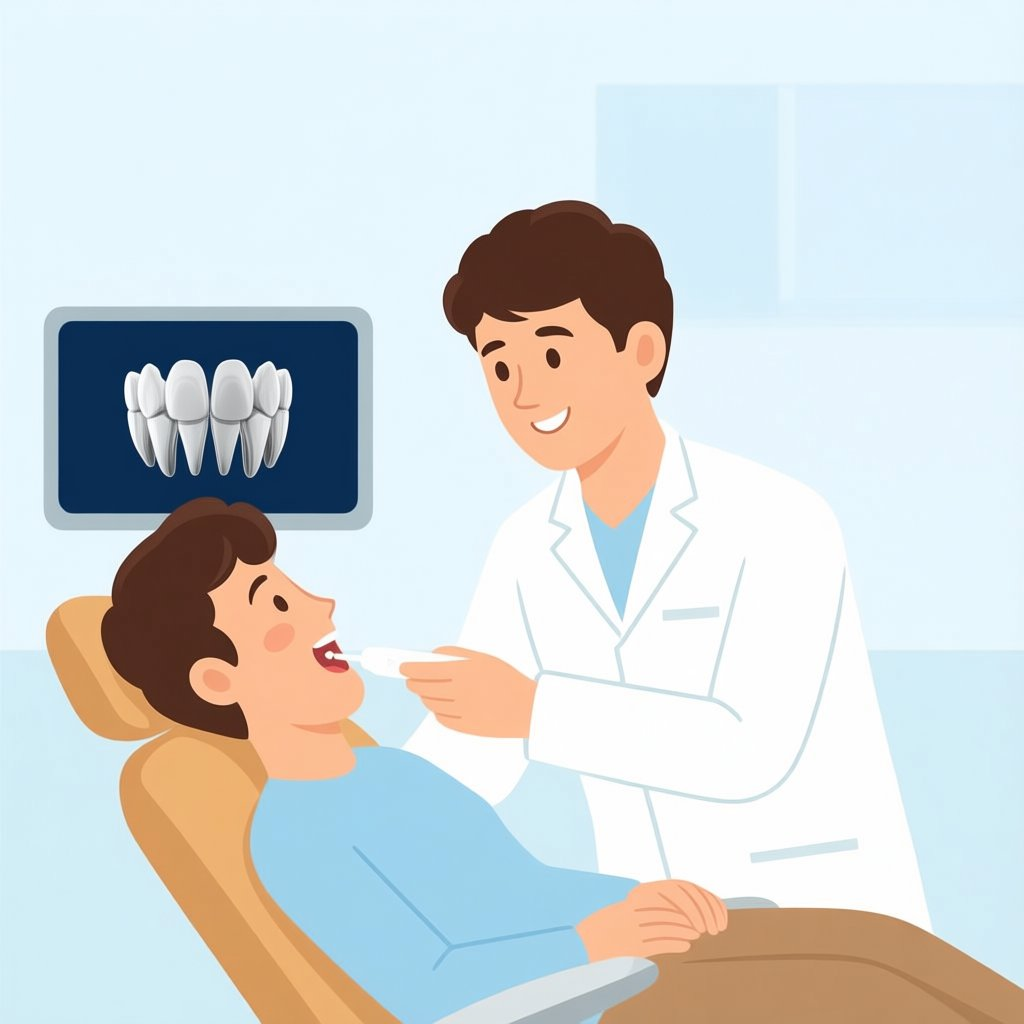
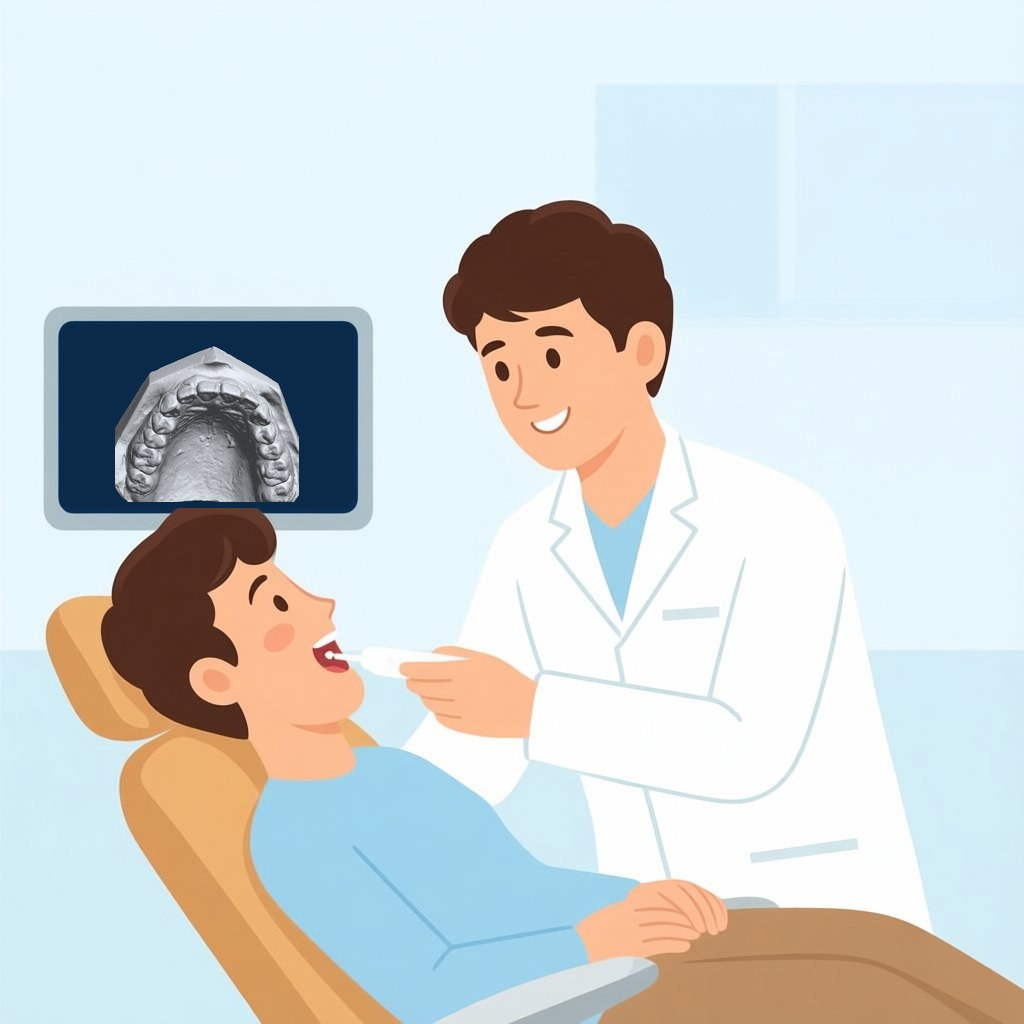
3D scan card: real rendered dental cast on the monitor
Monitor content is now a software render of the MIT-licensed
OrthoAid sample upper-jaw mesh (credited in README), composited
into the illustration, replacing the AI-generated screen content.

Claude-Session: https://claude.ai/code/session_01NSax2S5hDvPGoiQGGSAjvb

Changed region(s): [[0.0938, 0.3125, 0.3125, 0.5]]

diff --git a/README.md b/README.md
@@ -25,6 +25,10 @@ items:              # shown as numbered cards on the services page
   - 補牙
 ```
 
+## Asset credits
+
+The 3D dental-scan render shown on the services page's 3D口腔掃描 card was rendered from the sample upper-jaw dental cast mesh in [OrthoAid](https://github.com/amir-abdi/OrthoAid) (MIT License, © Amir H. Abdi).
+
 ## Local preview
 
 ```bash
